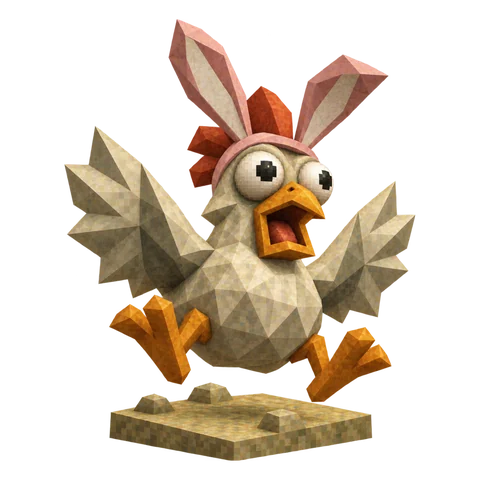
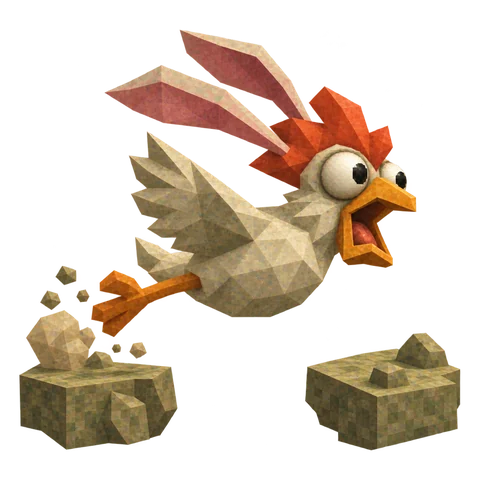
CS cases: nothing cut off at any edge (VAC, Negev, Zeus, 1.6, Bhop, Tryhard, Blue Again, Howl redrawn with a margin), no two cases on one gag (Flashbang is now the chicken in sunglasses, Bhop a side-on leap between blocks), Smurf in a natural pose; case-art.py now skips a picture whose subject runs 

diff --git a/scripts/case-art.py b/scripts/case-art.py
@@ -5,7 +5,8 @@ Usage:
   python scripts/case-art.py sheet.png a b c d    # a 2×2 sheet: cuts it into a, b, c, d (top left, top right, bottom left, bottom right)
 
 Each picture is trimmed to its subject, centred in a square with a small margin and saved as WebP. A picture whose
-corners are not transparent (ChatGPT sometimes paints a checkerboard instead of real alpha) is reported and skipped.
+corners are not transparent (ChatGPT sometimes paints a checkerboard instead of real alpha) is reported and skipped,
+and so is one whose subject runs into the frame edge (a handle or a muzzle flash cut off).
 At the end it writes public/img/_new/cases/_preview.png: every case at 104 px on the site's dark background, to check
 that it still reads at card size.
 """
@@ -27,6 +28,14 @@ def opaque_corners(im: Image.Image) -> bool:
     return sum(a.getpixel(p) > 200 for p in [(2, 2), (w - 3, 2), (2, h - 3), (w - 3, h - 3)]) >= 3
 
 
+def cut_sides(im: Image.Image) -> list[str]:
+    """Sides where the subject runs into the frame (opaque pixels in the outer 2 px), i.e. the art is cut off."""
+    a = im.getchannel('A').point(lambda v: 255 if v > 128 else 0)
+    w, h = im.size
+    bands = {'top': (0, 0, w, 2), 'bottom': (0, h - 2, w, h), 'left': (0, 0, 2, h), 'right': (w - 2, 0, w, h)}
+    return [side for side, box in bands.items() if a.crop(box).histogram()[255] > 4]
+
+
 def square(im: Image.Image) -> Image.Image:
     box = im.getchannel('A').point(lambda v: 255 if v > 8 else 0).getbbox()
     im = im.crop(box)
@@ -40,6 +49,10 @@ def save(im: Image.Image, slug: str, done: list):
     im = im.convert('RGBA')
     if opaque_corners(im):
         print(f'SKIP {slug}: the background is not transparent, regenerate it or cut it out first')
+        return
+    cut = cut_sides(im)
+    if cut:
+        print(f'SKIP {slug}: cut off at the {", ".join(cut)} edge, regenerate it with more margin')
         return
     dst = os.path.join(DST, slug + '.webp')
     square(im).save(dst, 'WEBP', quality=86, method=6)
